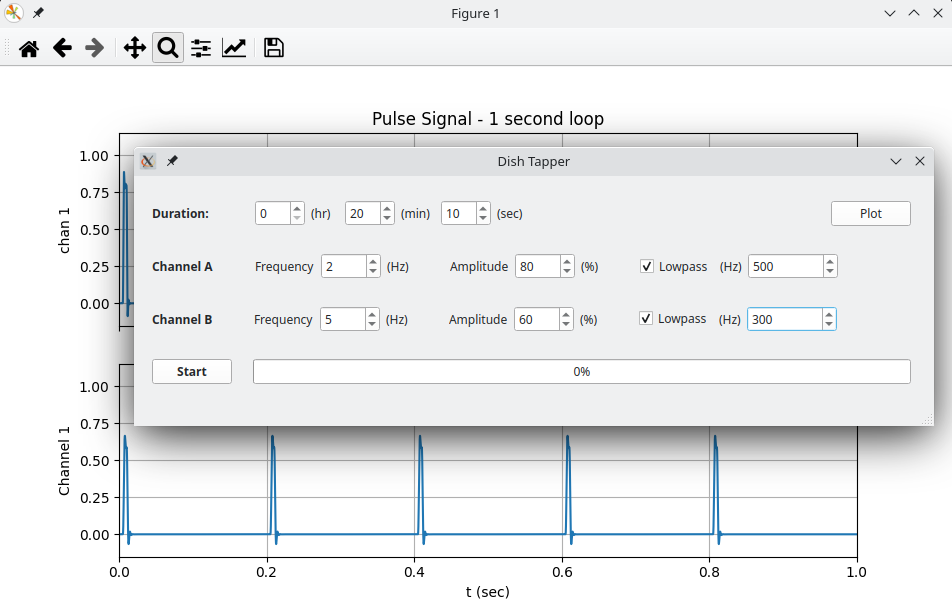
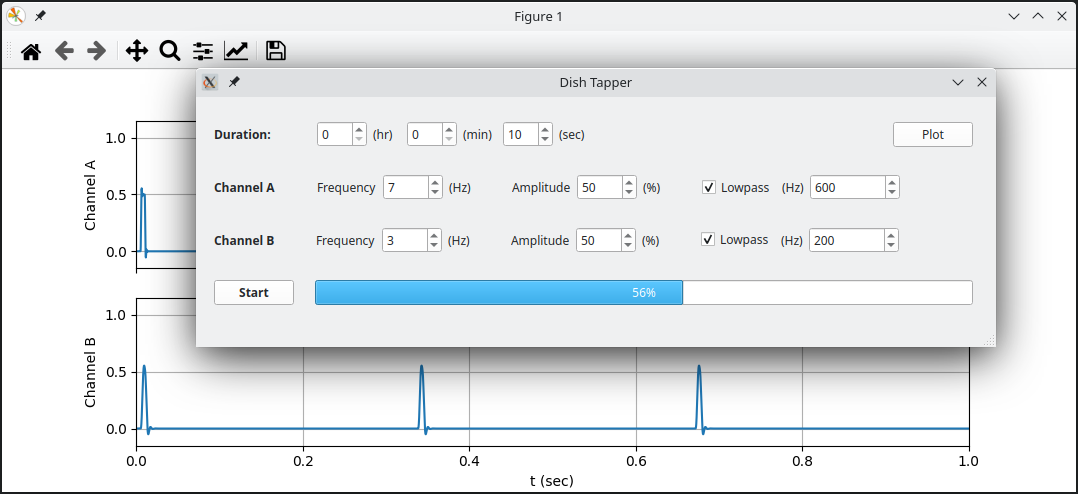
Added new screenshot and fixed label issue on plot.

diff --git a/dish_tapper_software/app.py b/dish_tapper_software/app.py
@@ -132,12 +132,12 @@ class AppMainWindow(QtWidgets.QMainWindow):
 
             chan_a_line, = self.ax[0].plot(t, seq[:,0])
             self.ax[0].grid(True)
-            self.ax[0].set_ylabel('chan 1')
+            self.ax[0].set_ylabel('Channel A')
             self.ax[0].set_xlim(*self.PLOT_DEFAULT_XLIM)
             self.ax[0].set_ylim(*self.PLOT_DEFAULT_YLIM)
             chan_b_line, = self.ax[1].plot(t, seq[:,1])
             self.ax[1].grid(True)
-            self.ax[1].set_ylabel('Channel 1')
+            self.ax[1].set_ylabel('Channel B')
             self.ax[1].set_xlabel('t (sec)')
             self.ax[1].set_xlim(*self.PLOT_DEFAULT_XLIM)
             self.ax[1].set_ylim(*self.PLOT_DEFAULT_YLIM)
